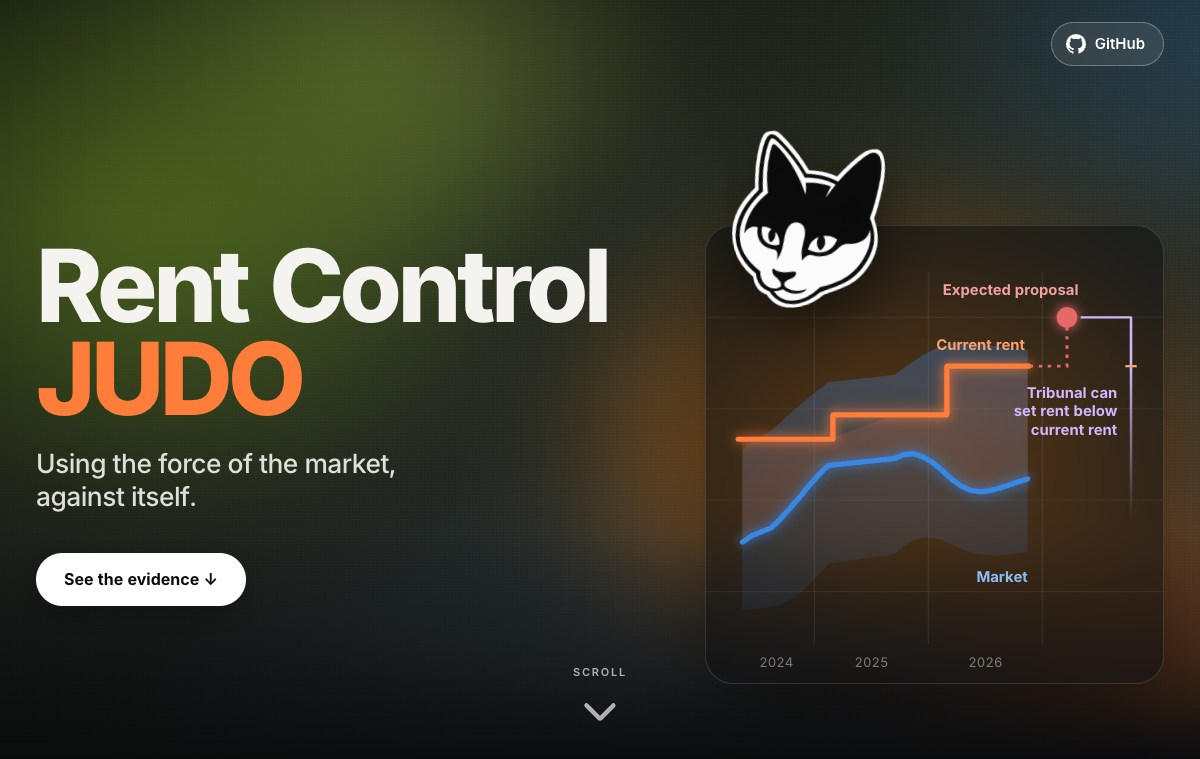
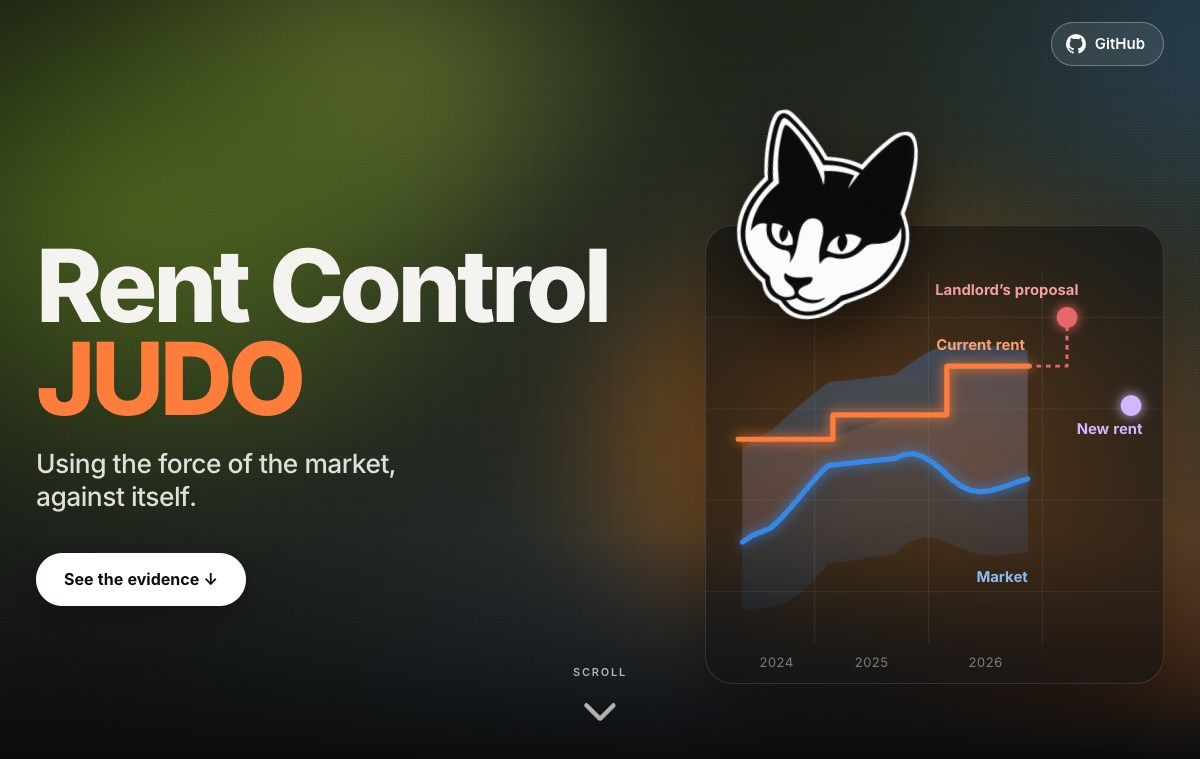
Match rent markers and refresh dashboard screenshots

diff --git a/public_page.py b/public_page.py
@@ -267,7 +267,7 @@ html{scroll-behavior:smooth}
   background:rgba(12,14,16,.58);border:1px solid rgba(255,255,255,.12);backdrop-filter:blur(14px);
   box-shadow:0 30px 80px rgba(0,0,0,.45);overflow:hidden}
 .jd-card svg{position:absolute;inset:0;width:100%;height:100%}
-.jd-cat{position:absolute;left:1%;top:-22%;width:42%;transform:rotate(-8deg);pointer-events:none;
+.jd-cat{position:absolute;left:1%;top:-27%;width:50%;transform:rotate(-8deg);pointer-events:none;
   filter:drop-shadow(3px 0 0 #fff) drop-shadow(-3px 0 0 #fff) drop-shadow(0 3px 0 #fff) drop-shadow(0 -3px 0 #fff) drop-shadow(0 18px 28px rgba(0,0,0,.55))}
 .jd-down{position:absolute;left:50%;bottom:20px;transform:translateX(-50%);display:flex;flex-direction:column;align-items:center;gap:4px;color:rgba(244,243,239,.7);text-decoration:none;font-size:11px;font-weight:600;letter-spacing:.16em;text-transform:uppercase}
 .jd-down svg{animation:jdBob 2.2s ease-in-out infinite}
@@ -280,7 +280,7 @@ html{scroll-behavior:smooth}
 @keyframes jdPulse{0%{opacity:.8;transform:scale(1)}100%{opacity:0;transform:scale(2.6)}}
 @media (max-width:900px){.jd-body{grid-template-columns:1fr}.jd-art{justify-self:center;max-width:440px;margin-top:20%}}
 @media (max-width:520px){.jd-art{max-width:none;margin-top:26%}.jd-cat{left:2%;top:-24%;width:46%}.jd-gh span{display:none}.jd-gh{padding:10px}.jd-down{display:none}}
-@media (prefers-reduced-motion: reduce){.jd-bg,.jd-down svg,.jd-pulse{animation:none}.jd-draw,.jd-fade,.jd-late,.jd-lab{animation:none;opacity:1;stroke-dashoffset:0}}
+@media (prefers-reduced-motion: reduce){.jd-bg,.jd-down svg,.jd-pulse{animation:none}.jd-draw,.jd-fade,.jd-late,.jd-lab{animation:none;opacity:1}.jd-draw{stroke-dashoffset:0}}
 .dash-head{display:flex;align-items:center;justify-content:space-between;gap:12px;margin:8px 0 18px;scroll-margin-top:16px}
 .dash-head h2{font-size:clamp(22px,2.6vw,30px);letter-spacing:-.035em}
 .reveal{opacity:0;transform:translateY(18px);transition:opacity .7s ease,transform .7s cubic-bezier(.2,.7,.2,1)}
@@ -473,7 +473,7 @@ function dist() {
   const x = v => m.l + (v - lo) / (hi - lo) * (W - m.l - m.r);
   const K = kde(P, lo, hi), ymax = Math.max(...K.map(k => k[1]));
   const base = H - m.b - 26, y = d => base - d / ymax * (base - m.t);
-  const svg = el("svg", {viewBox: `0 0 ${W} ${H}`, role: "img", "aria-label": "Distribution of comparable agreed rents with this rent marked"}, box);
+  const svg = el("svg", {viewBox: `0 0 ${W} ${H}`, role: "img", "aria-label": "Distribution of comparable agreed rents with the rent marked"}, box);
   const g = el("defs", {}, svg); const lg = el("linearGradient", {id: "kd", x1: 0, x2: 0, y1: 0, y2: 1}, g);
   el("stop", {offset: "0%", "stop-color": css("--mkt"), "stop-opacity": .45}, lg); el("stop", {offset: "100%", "stop-color": css("--mkt"), "stop-opacity": .04}, lg);
   el("path", {d: `M${x(K[0][0])},${base}` + K.map(k => `L${x(k[0])},${y(k[1])}`).join("") + `L${x(K[K.length - 1][0])},${base}Z`, fill: "url(#kd)"}, svg);
@@ -487,7 +487,7 @@ function dist() {
   const vline = (v, c, label, wgt, side) => { el("line", {x1: x(v), x2: x(v), y1: m.t - 6, y2: base, stroke: c, "stroke-width": wgt}, svg);
     tx(svg, x(v) + (side === "end" ? -6 : 6), m.t - 2, label, "strong", side); };
   vline(MKT, "var(--mkt)", `Median ${gbp(MKT)}`, 2, RENT >= MKT ? "end" : "start");
-  vline(RENT, "var(--you)", `This rent ${gbp(RENT)}`, 3, RENT >= MKT ? "start" : "end");
+  vline(RENT, "var(--you)", `The rent ${gbp(RENT)}`, 3, RENT >= MKT ? "start" : "end");
   ticks(lo, hi, W < 520 ? 4 : 7).forEach(t => tx(svg, x(t), H - 4, gbp(t), null, "middle"));
 }
 
@@ -539,7 +539,7 @@ function cells() {
 
 function trend() {
   const box = $("#c-trend"); box.innerHTML = "";
-  legend("#lg-trend", [["Agreed rents: median", css("--mkt")], ["middle half", css("--mkt-wash"), "b"], ["Borough average (ONS)", css("--ok")], ["This tenancy", css("--you")]]);
+  legend("#lg-trend", [["Agreed rents: median", css("--mkt")], ["middle half", css("--mkt-wash"), "b"], ["Borough average (ONS)", css("--ok")], ["The rent", css("--you")]]);
   const T = D.trend; if (!T.length) return; const O = D.ons.filter(o => o.m >= T[0].m);
   const W = Math.max(300, box.clientWidth), H = 300, m = {l: 52, r: W < 520 ? 12 : 112, t: 14, b: 28};
   const t0 = new Date(T[0].m + "-01"), t1 = new Date();
@@ -561,7 +561,7 @@ function trend() {
   el("path", {d: p, fill: "none", stroke: "var(--you)", "stroke-width": 3, "stroke-linejoin": "round"}, svg);
   if (D.proposed) el("circle", {cx: x(t1), cy: y((D.proposed[0] + D.proposed[1]) / 2), r: 6, fill: "var(--prop)", stroke: "var(--surface)", "stroke-width": 2}, svg);
   if (W >= 520) { const last = T[T.length - 1];
-    tx(svg, W - m.r + 8, y(D.rent) + 4, `This ${gbp(D.rent)}`, "strong");
+    tx(svg, W - m.r + 8, y(D.rent) + 4, `The rent ${gbp(D.rent)}`, "strong");
     tx(svg, W - m.r + 8, y(last.med) + 4, `Median ${gbp(last.med)}`, "lbl");
     if (O.length) tx(svg, W - m.r + 8, y(O[O.length - 1].v) + (Math.abs(y(O[O.length - 1].v) - y(last.med)) < 14 ? 16 : 4), `ONS ${gbp(O[O.length - 1].v)} (${new Date(O[O.length - 1].m + "-01").toLocaleDateString("en-GB", {month: "short"})})`, "lbl");
     if (D.proposed) tx(svg, W - m.r + 14, y((D.proposed[0] + D.proposed[1]) / 2) + 4, "Proposal", "lbl"); }
@@ -573,18 +573,18 @@ function trend() {
     const o = O.reduce((b, v) => !b || Math.abs(new Date(v.m) - d) < Math.abs(new Date(b.m) - d) ? v : b, null);
     const h = [...D.history].reverse().find(h => h.from <= key);
     cross.setAttribute("x1", sx); cross.setAttribute("x2", sx); cross.setAttribute("opacity", 1);
-    show(e, [fmtM(key), `Median agreed ${gbp(t.med)} (${t.n} lets)`, ...(o ? [`ONS average ${gbp(o.v)}`] : []), ...(h ? [`This tenancy ${gbp(h.rent)}`] : [])]); });
+    show(e, [fmtM(key), `Median agreed ${gbp(t.med)} (${t.n} lets)`, ...(o ? [`ONS average ${gbp(o.v)}`] : []), ...(h ? [`The rent ${gbp(h.rent)}`] : [])]); });
   ov.addEventListener("pointerleave", () => { cross.setAttribute("opacity", 0); hide(); });
 }
 
 function byKm() {
   const box = $("#c-km"); box.innerHTML = "";
-  legend("#lg-km", [["Cheaper than this rent", css("--mkt"), "d"], ["Same or dearer", css("--muted"), "d"], ["This rent", css("--you")]]);
+  legend("#lg-km", [["Cheaper than the rent", css("--mkt"), "d"], ["Same or dearer", css("--muted"), "d"], ["The rent", css("--you")]]);
   const W = Math.max(300, box.clientWidth), H = 260, m = {l: 52, r: 12, t: 16, b: 30};
   const vals = P.concat(RENT); const lo = Math.floor((Math.min(...vals) - 100) / 250) * 250, hi = Math.ceil((Math.max(...vals) + 100) / 250) * 250;
   const kmax = Math.ceil(Math.max(...D.points.map(p => p.km), 1));
   const x = k => m.l + k / kmax * (W - m.l - m.r), y = v => H - m.b - (v - lo) / (hi - lo) * (H - m.t - m.b);
-  const svg = el("svg", {viewBox: `0 0 ${W} ${H}`, role: "img", "aria-label": "Agreed rents by distance, with this rent marked"}, box);
+  const svg = el("svg", {viewBox: `0 0 ${W} ${H}`, role: "img", "aria-label": "Agreed rents by distance, with the rent marked"}, box);
   ticks(lo, hi, 5).forEach(t => { el("line", {x1: m.l, x2: W - m.r, y1: y(t), y2: y(t), class: "gl"}, svg); tx(svg, m.l - 8, y(t) + 4, gbp(t), null, "end"); });
   for (let k = 0; k <= kmax; k++) tx(svg, x(k), H - 8, `${k} km`, null, "middle");
   el("rect", {x: m.l, y: y(RENT), width: W - m.l - m.r, height: Math.max(0, y(lo) - y(RENT)), fill: "var(--mkt-wash)", opacity: .5}, svg);
@@ -594,7 +594,7 @@ function byKm() {
     const h = el("circle", {cx: x(p.km), cy: y(p.v), r: 10, class: "hit"}, svg);
     h.addEventListener("pointermove", e => { c.setAttribute("r", 7); show(e, [gbp(p.v), `${p.km} km away · let ${fmtM(p.m)}`, below ? `${gbp(RENT - p.v)} cheaper` : "same or dearer"]); });
     h.addEventListener("pointerleave", () => { c.setAttribute("r", 5); hide(); }); });
-  tx(svg, W - m.r, y(RENT) - 8, `This rent ${gbp(RENT)}`, "strong", "end");
+  tx(svg, W - m.r, y(RENT) - 8, `The rent ${gbp(RENT)}`, "strong", "end");
 }
 
 function judo() {
@@ -604,11 +604,11 @@ function judo() {
   const smooth = key => T.map((_, i) => { let a = 0, b = 0; T.forEach((v, j) => { const k = Math.exp(-(((i - j) / 3.5) ** 2) / 2) * v.n; a += k * v[key]; b += k; }); return a / b; });
   const md = smooth("med"), q1 = smooth("q1"), q3 = smooth("q3");
   const pm = D.proposed ? (D.proposed[0] + D.proposed[1]) / 2 : null;
-  const showTribunalRange = pm !== null && pm > D.rent;
+  const marketMedian = md[md.length - 1];
+  const newRent = pm === null ? null : Math.min(pm, marketMedian + (D.rent - marketMedian) * .65);
   svg.setAttribute("role", "img");
   svg.setAttribute("aria-label", "Rent history and comparable agreed rents over time." + (pm === null ? "" :
-    ` The expected landlord proposal is ${gbp(pm)} a month.`) + (showTribunalRange ?
-    " The proposal caps the tribunal rent, which can fall below the current rent." : ""));
+    ` The expected landlord proposal is ${gbp(pm)} a month. The new rent marker shows an example of ${gbp(newRent)} a month, using the current rent and market median as reference points.`));
   const t0 = +new Date(T[0].m + "-01"), t1 = Date.now(), tp = t1 + 120 * 864e5;     // proposal shown ~4 months on
   const xL = S * .07, xP = S * .79;
   const x = t => xL + (t - t0) / (tp - t0) * (xP - xL);
@@ -637,22 +637,24 @@ function judo() {
   r += `L${x(t1)},${y(rentAt(t1))}`;
   el("path", {d: r, fill: "none", stroke: "#ff7d3b", "stroke-width": 4.5, filter: "url(#jdglow)", "stroke-linejoin": "round", "stroke-linecap": "round", pathLength: 1, class: "jd-draw"}, svg);
   const lab = (x0, y0, t, c) => { const e = tx(svg, x0, y0, t, "jd-lab", "end"); e.style.fill = c; e.style.fontSize = "13px"; e.style.fontWeight = 650; };
+  const glowNode = (cx, cy, colour) => {
+    el("circle", {cx, cy, r: 9, fill: "none", stroke: colour, "stroke-width": 2, class: "jd-pulse"}, svg);
+    return el("circle", {cx, cy, r: 9, fill: colour, filter: "url(#jdglow)", class: "jd-late"}, svg);
+  };
   if (pm !== null) {
-    el("path", {d: `M${x(t1)},${y(rentAt(t1))}L${xP},${y(rentAt(t1))}L${xP},${y(pm)}`, fill: "none", stroke: "#e66767", "stroke-width": 2.5, "stroke-dasharray": "3 5", class: "jd-late"}, svg);
-    el("circle", {cx: xP, cy: y(pm), r: 9, fill: "none", stroke: "#e66767", "stroke-width": 2, class: "jd-pulse"}, svg);
-    el("circle", {cx: xP, cy: y(pm), r: 9, fill: "#e66767", filter: "url(#jdglow)", class: "jd-late"}, svg);
-    lab(xP + 10, y(pm) - 20, "Expected proposal", "#f3a0a0");
-  }
-  if (showTribunalRange) {
-    const bracketX = S * .93, currentY = y(D.rent), endY = Math.min(S * .89, currentY + 132);
-    const colour = "#d0b8ff";
-    const fade = el("linearGradient", {id: "jdTribunalFade", gradientUnits: "userSpaceOnUse", x1: 0, x2: 0, y1: currentY, y2: endY}, defs);
-    el("stop", {offset: 0, "stop-color": colour}, fade);
-    el("stop", {offset: 1, "stop-color": colour, "stop-opacity": 0}, fade);
-    el("path", {d: `M${xP + 12},${y(pm)}H${bracketX}V${endY}`, fill: "none", stroke: "url(#jdTribunalFade)", "stroke-width": 2, "stroke-linejoin": "round", class: "jd-late"}, svg);
-    el("line", {x1: bracketX - 5, x2: bracketX + 5, y1: currentY, y2: currentY, stroke: "#ffa070", "stroke-width": 2, class: "jd-late"}, svg);
-    const labelY = Math.min(currentY + 28, S * .77);
-    ["Tribunal can", "set rent below", "current rent"].forEach((text, i) => lab(bracketX - 12, labelY + i * 16, text, colour));
+    const currentX = x(t1), currentY = y(rentAt(t1)), proposalY = y(pm);
+    const across = xP - currentX;
+    // Fit complete dash cycles across the step so a dash wraps around the corner.
+    const cycle = across / Math.max(1, Math.round(across / 8));
+    el("path", {d: `M${currentX},${currentY}H${xP}V${proposalY}`, fill: "none", stroke: "#e66767", "stroke-width": 2.5,
+      "stroke-dasharray": cycle / 2, "stroke-dashoffset": cycle / 4, "stroke-linejoin": "round", class: "jd-late"}, svg);
+    glowNode(xP, proposalY, "#e66767");
+    lab(xP + 10, proposalY - 20, "Landlord’s proposal", "#f3a0a0");
+
+    const newRentX = S * .93, newRentY = y(newRent), colour = "#d0b8ff";
+    const node = glowNode(newRentX, newRentY, colour);
+    el("title", {}, node).textContent = "Example new rent using the market median and current rent as reference points";
+    lab(newRentX + 10, newRentY + 25, "New rent", colour);
   }
   lab(x(t1) - 4, y(rentAt(t1)) - 14, "Current rent", "#ffa070");
   lab(x(ts[ts.length - 1]), y(q1[q1.length - 1]) + 26, "Market", "#8dbcf3");

diff --git a/README.md b/README.md
@@ -11,7 +11,7 @@
 <p align="center"><a href="https://rent-evidence-demo.pages.dev"><b>Live demo →</b></a></p>
 
 <p align="center">
-  <a href="https://rent-evidence-demo.pages.dev"><img src="docs/screenshots/hero-dark.jpg" width="820" alt="Rent Control JUDO with a cat mascot above a chart and a fading bracket from the landlord’s expected proposal to below the current rent"></a>
+  <a href="https://rent-evidence-demo.pages.dev"><img src="docs/screenshots/hero-dark.jpg" width="820" alt="Rent Control JUDO with a cat mascot above a chart showing the landlord’s proposal and a lavender new-rent marker below the current rent"></a>
 </p>
 
 Since 1 May 2026 (the Renters' Rights Act 2025), a private landlord in England can only raise the rent with a
@@ -30,8 +30,8 @@ copy so others can see how it works.
 ## The public dashboard
 
 A full-screen opening section shows the cat mascot perched on a chart of the local market and the example rent.
-A red dot marks the landlord's expected proposal. A lavender bracket runs down from the proposal and fades below
-the current rent to show that the tribunal can set a lower rent. The page scrolls smoothly down to the evidence: one number up front (how far the rent sits above the local median), three headline figures (live listings,
+A red dot marks the landlord's expected proposal. A lavender dot shows an example new rent between the latest
+charted market median and the current rent, subject to the proposal cap. The page scrolls smoothly down to the evidence: one number up front (how far the rent sits above the local median), three headline figures (live listings,
 agreed lets analysed, recent comparables), and four charts: how many recent lets were cheaper, a grid showing
 the rent above the median at every distance and period (the group behind the headline outlined), agreed rents
 over time against the official ONS average, and every let by distance. Hover anything for the figures behind it.
@@ -44,7 +44,7 @@ It follows the viewer's light or dark setting and works on a phone.
 <p align="center">
   <img src="docs/screenshots/charts-light.jpg" width="510" alt="Light mode: agreed rents over time, and agreed rents by distance with the example rent marked">
   &nbsp;
-  <img src="docs/screenshots/mobile-dark.jpg" width="280" alt="Phone view of the hero chart with a bracket showing that the tribunal can set rent below the current rent">
+  <img src="docs/screenshots/mobile-dark.jpg" width="280" alt="Phone view of the hero chart with a red landlord’s proposal dot and a lavender new-rent dot">
 </p>
 
 The full working (evidence log, every adjustment line by line, tribunal decisions, a spreadsheet laid out for the
